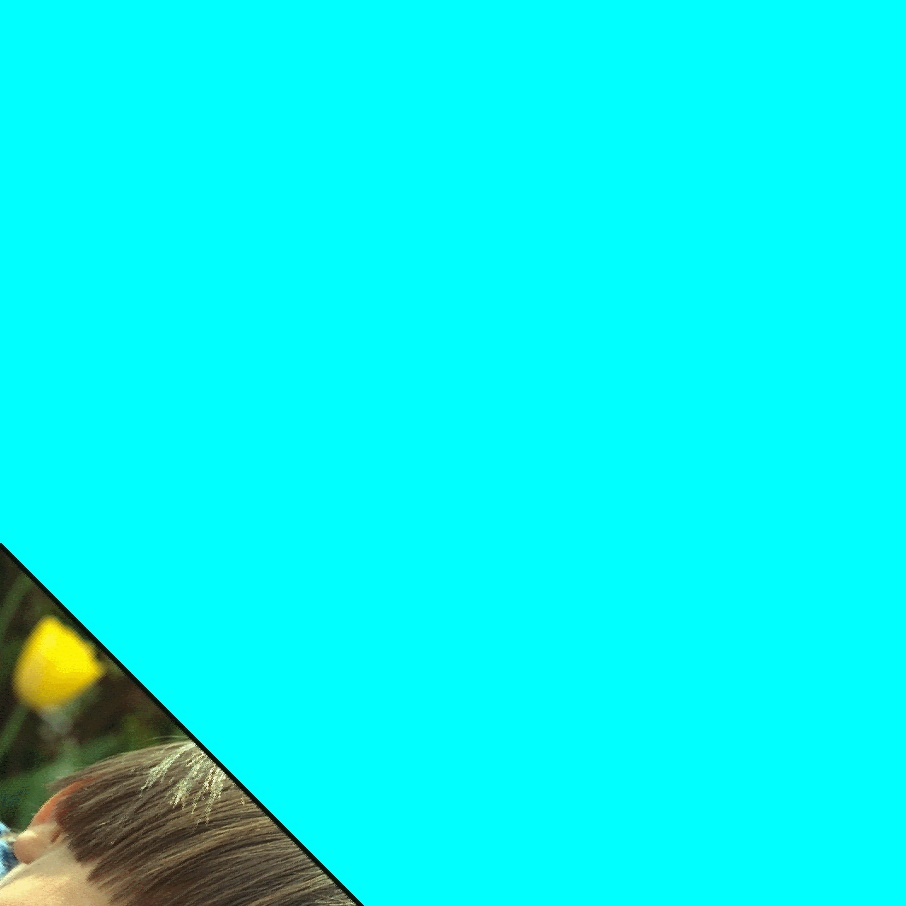
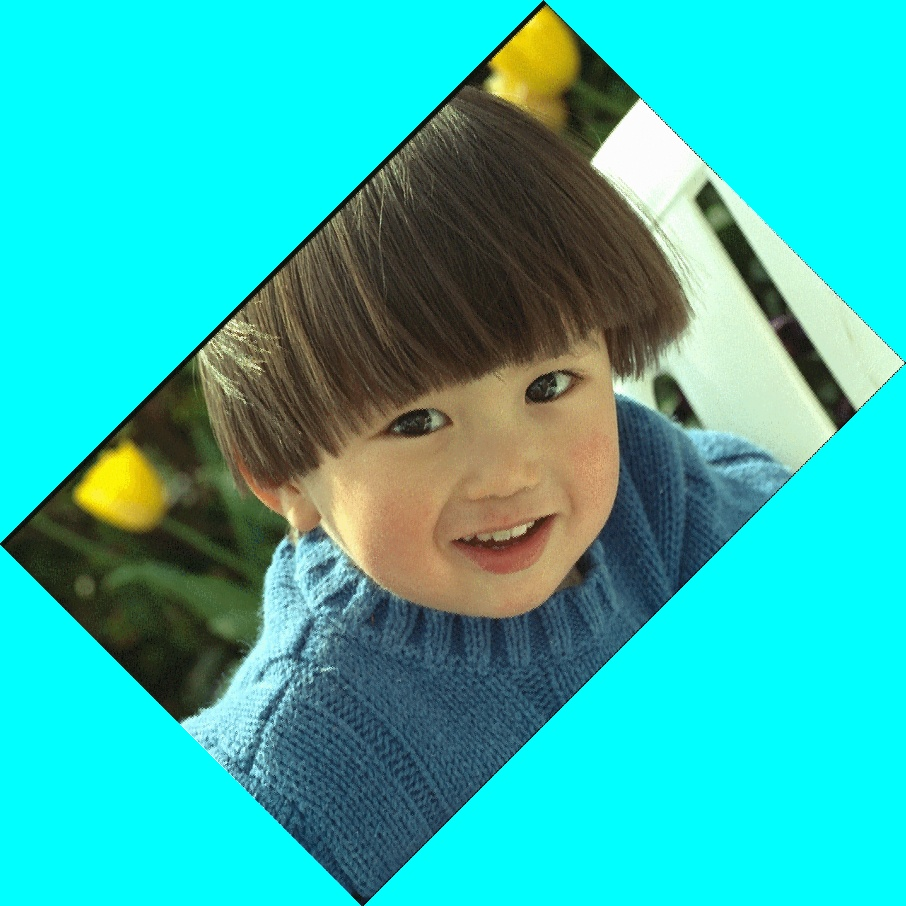
修改一个注释引起的Bug

diff --git a/ImageProcessing/Rotate_CPP/src/rotate.cpp b/ImageProcessing/Rotate_CPP/src/rotate.cpp
@@ -74,7 +74,7 @@ void MyRotate(cv::Mat &img, cv::Mat &dst, double degree)
             cv::Mat dstPoint = (cv::Mat_<float>(2, 1) << i, j);
             cv::Mat T;
             /*反算原图像位置*/
-            T = A.t() * (dstPoint - B);
+            T = A * (dstPoint - B);
             /*四邻域点
             0————-->x
             | A——B
